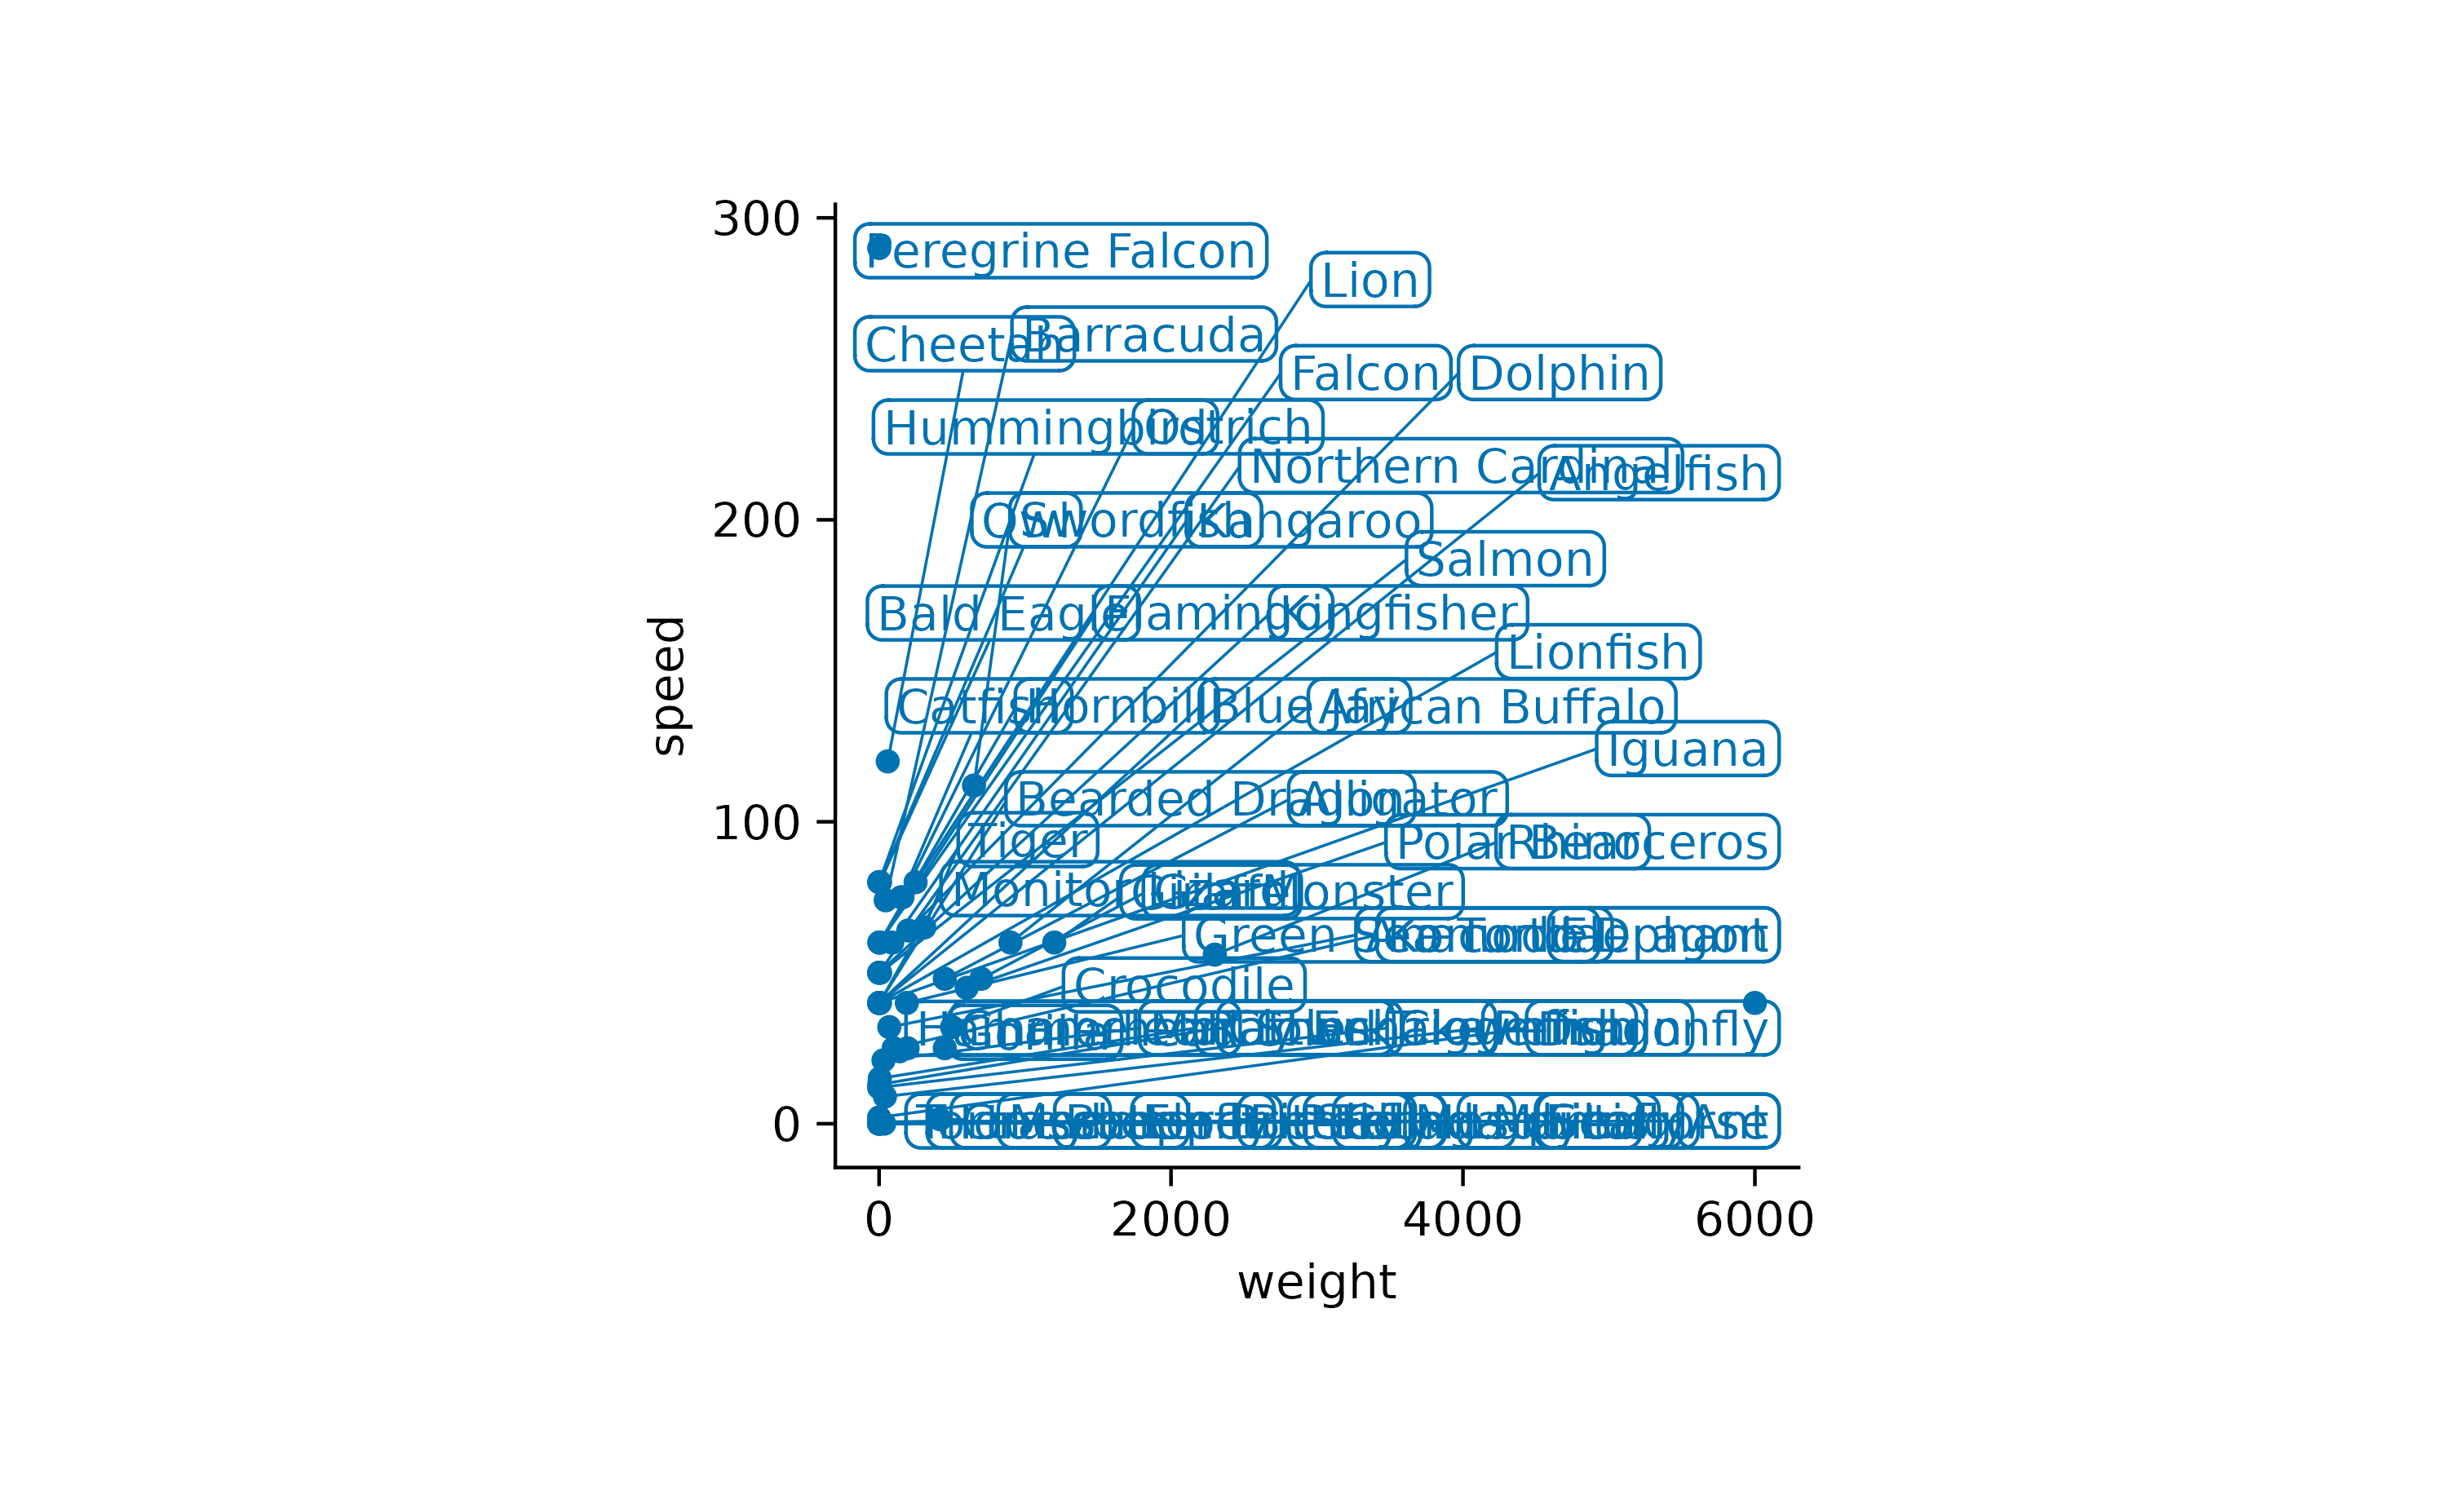
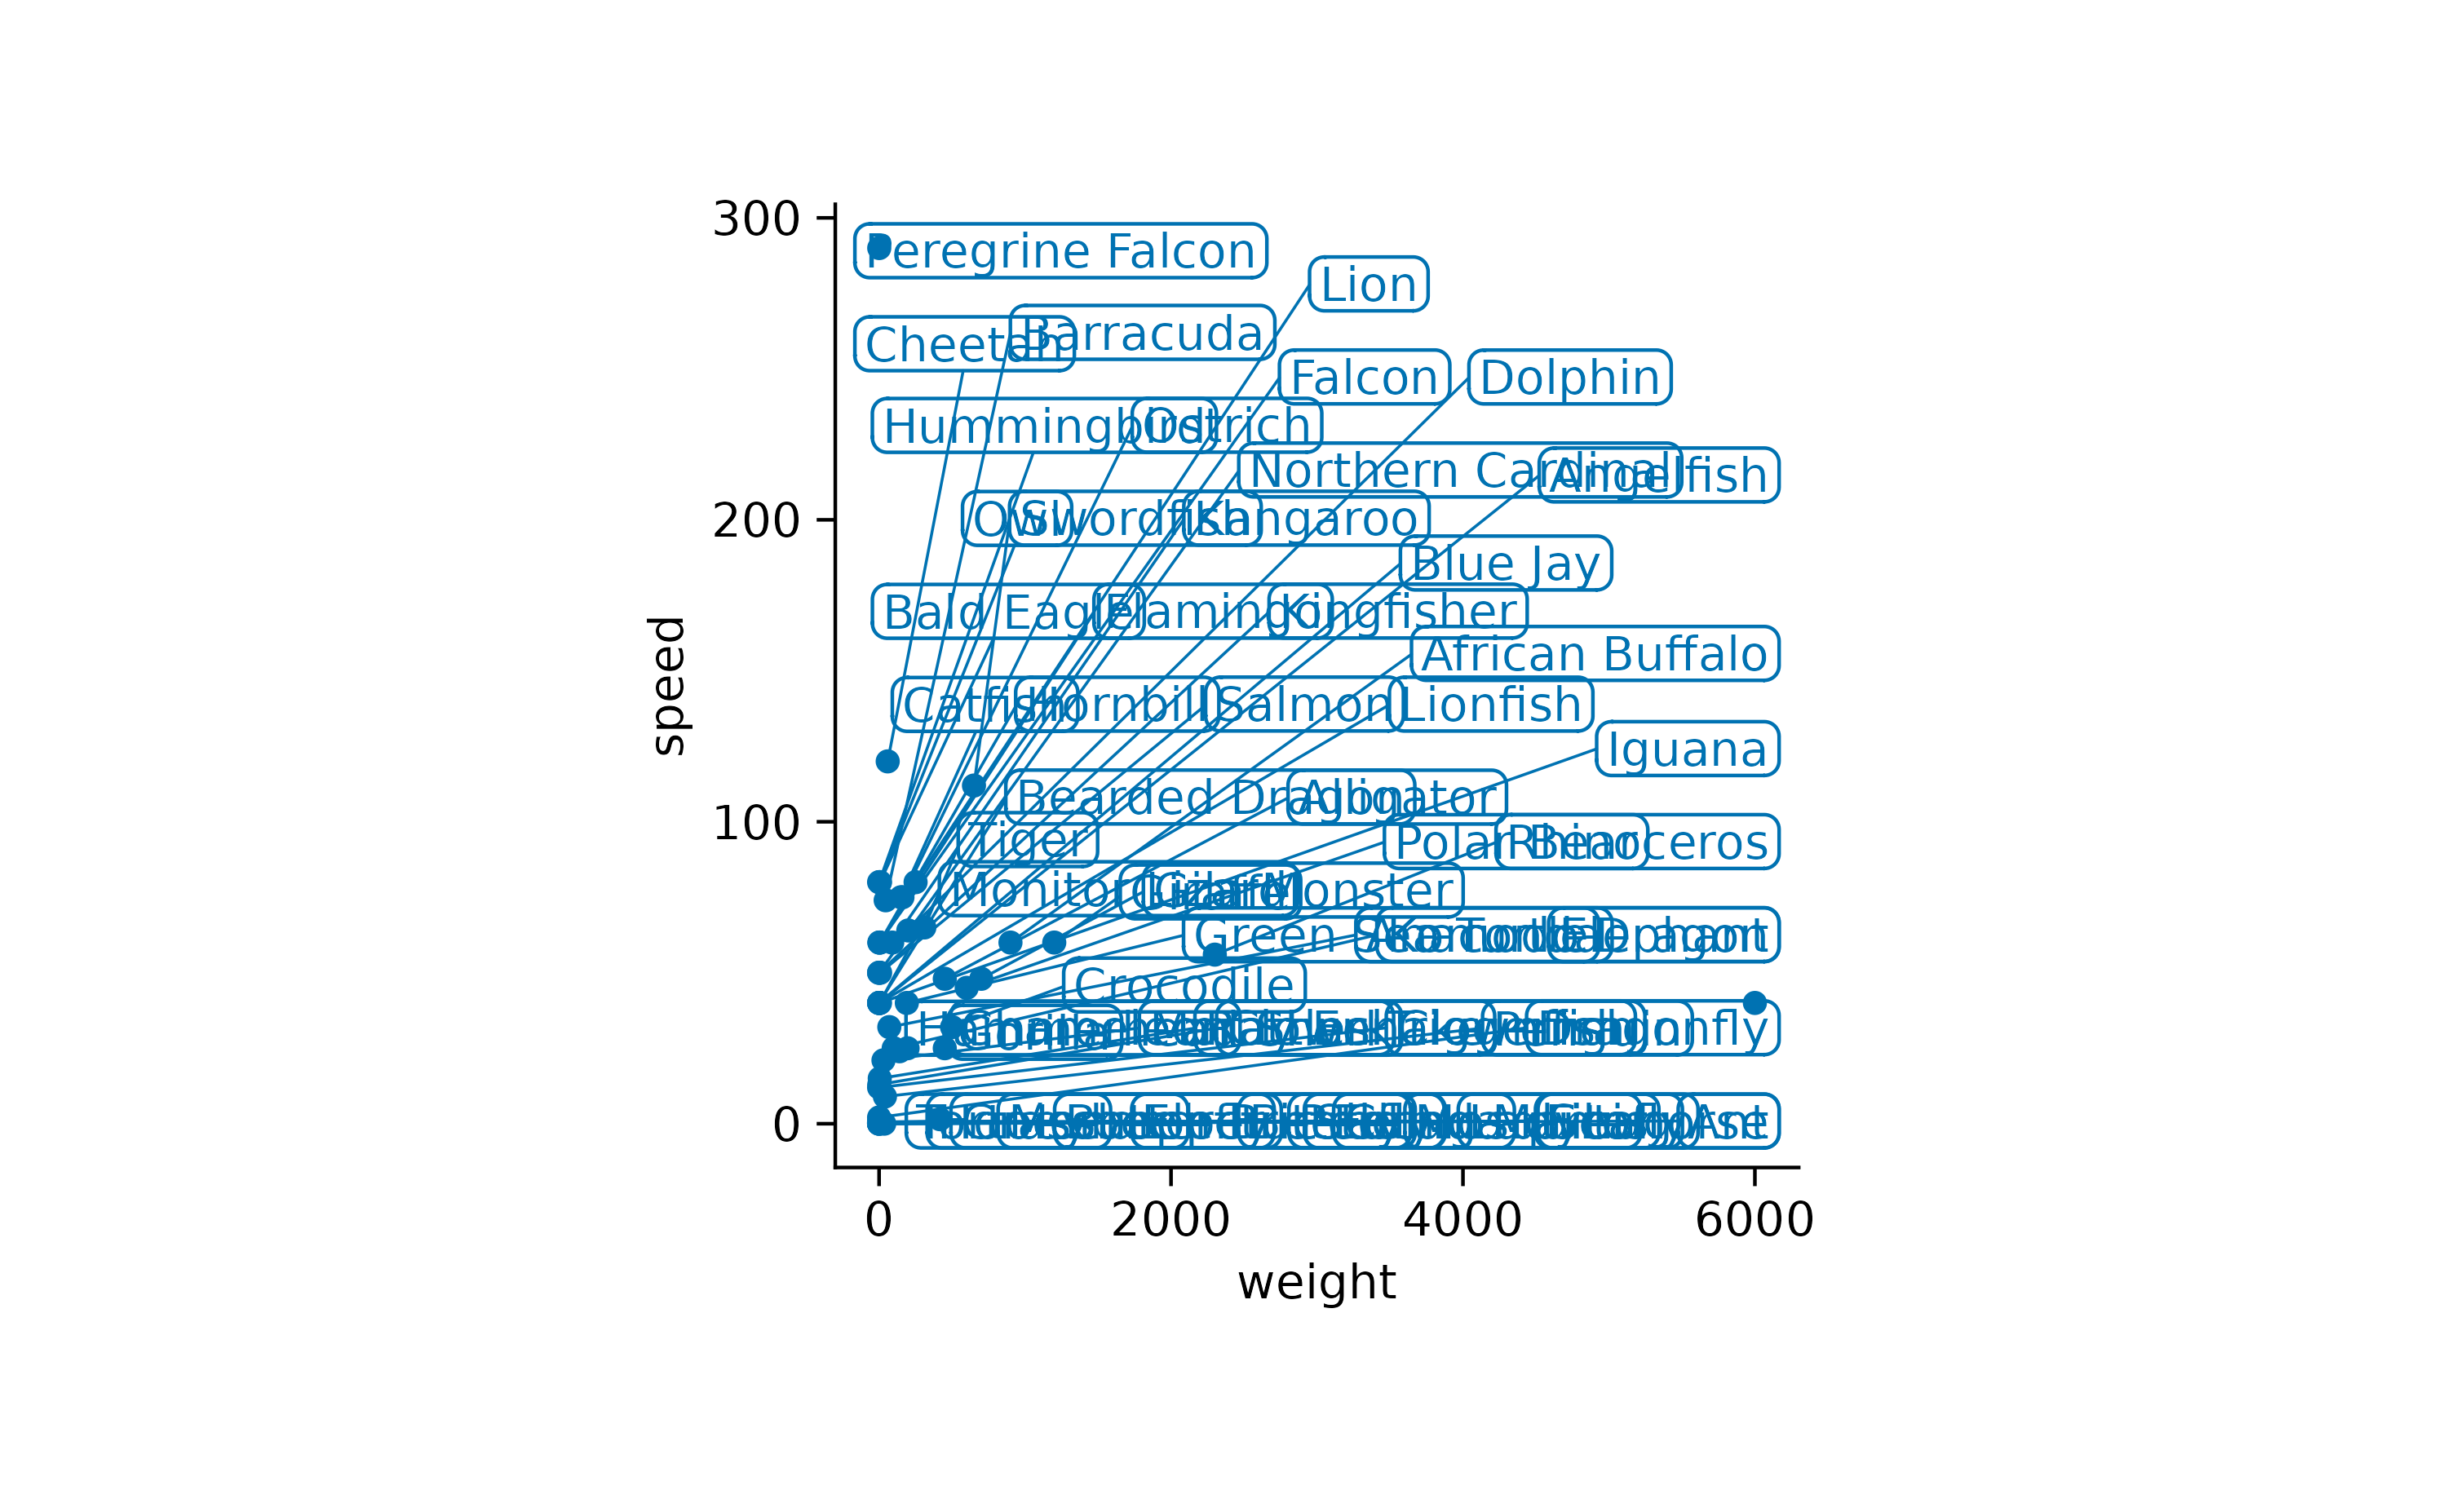
Deploying to gh-pages from @ jbengler/tidyplots@7c016d3a5301ef30e3ac5a82ff9cfbb9a6376e37 🚀

Changed region(s): [[0.341, 0.1537, 0.744, 0.6456], [0.496, 0.6764, 0.682, 0.7071], [0.651, 0.5534, 0.682, 0.5841]]

diff --git a/news/index.html b/news/index.html
@@ -1,5 +1,5 @@
 <!DOCTYPE html>
-<!-- Generated by pkgdown: do not edit by hand --><html lang="en"><head><meta http-equiv="Content-Type" content="text/html; charset=UTF-8"><meta charset="utf-8"><meta http-equiv="X-UA-Compatible" content="IE=edge"><meta name="viewport" content="width=device-width, initial-scale=1, shrink-to-fit=no"><title>Changelog • tidyplots</title><!-- favicons --><link rel="icon" type="image/png" sizes="96x96" href="../favicon-96x96.png"><link rel="icon" type="”image/svg+xml”" href="../favicon.svg"><link rel="apple-touch-icon" sizes="180x180" href="../apple-touch-icon.png"><link rel="icon" sizes="any" href="../favicon.ico"><link rel="manifest" href="../site.webmanifest"><script src="../deps/jquery-3.6.0/jquery-3.6.0.min.js"></script><meta name="viewport" content="width=device-width, initial-scale=1, shrink-to-fit=no"><link href="../deps/bootstrap-5.3.1/bootstrap.min.css" rel="stylesheet"><script src="../deps/bootstrap-5.3.1/bootstrap.bundle.min.js"></script><link href="../deps/font-awesome-6.5.2/css/all.min.css" rel="stylesheet"><link href="../deps/font-awesome-6.5.2/css/v4-shims.min.css" rel="stylesheet"><script src="../deps/headroom-0.11.0/headroom.min.js"></script><script src="../deps/headroom-0.11.0/jQuery.headroom.min.js"></script><script src="../deps/bootstrap-toc-1.0.1/bootstrap-toc.min.js"></script><script src="../deps/clipboard.js-2.0.11/clipboard.min.js"></script><script src="../deps/search-1.0.0/autocomplete.jquery.min.js"></script><script src="../deps/search-1.0.0/fuse.min.js"></script><script src="../deps/search-1.0.0/mark.min.js"></script><!-- pkgdown --><script src="../pkgdown.js"></script><link href="../extra.css" rel="stylesheet"><meta property="og:title" content="Changelog"><meta property="og:image" content="https://jbengler.github.io/tidyplots/logo.svg"></head><body>
+<!-- Generated by pkgdown: do not edit by hand --><html lang="en"><head><meta http-equiv="Content-Type" content="text/html; charset=UTF-8"><meta charset="utf-8"><meta http-equiv="X-UA-Compatible" content="IE=edge"><meta name="viewport" content="width=device-width, initial-scale=1, shrink-to-fit=no"><title>Changelog • tidyplots</title><!-- favicons --><link rel="icon" type="image/png" sizes="96x96" href="../favicon-96x96.png"><link rel="icon" type="”image/svg+xml”" href="../favicon.svg"><link rel="apple-touch-icon" sizes="180x180" href="../apple-touch-icon.png"><link rel="icon" sizes="any" href="../favicon.ico"><link rel="manifest" href="../site.webmanifest"><script src="../deps/jquery-3.6.0/jquery-3.6.0.min.js"></script><meta name="viewport" content="width=device-width, initial-scale=1, shrink-to-fit=no"><link href="../deps/bootstrap-5.3.8/bootstrap.min.css" rel="stylesheet"><script src="../deps/bootstrap-5.3.8/bootstrap.bundle.min.js"></script><link href="../deps/font-awesome-6.5.2/css/all.min.css" rel="stylesheet"><link href="../deps/font-awesome-6.5.2/css/v4-shims.min.css" rel="stylesheet"><script src="../deps/headroom-0.11.0/headroom.min.js"></script><script src="../deps/headroom-0.11.0/jQuery.headroom.min.js"></script><script src="../deps/bootstrap-toc-1.0.1/bootstrap-toc.min.js"></script><script src="../deps/clipboard.js-2.0.11/clipboard.min.js"></script><script src="../deps/search-1.0.0/autocomplete.jquery.min.js"></script><script src="../deps/search-1.0.0/fuse.min.js"></script><script src="../deps/search-1.0.0/mark.min.js"></script><!-- pkgdown --><script src="../pkgdown.js"></script><link href="../extra.css" rel="stylesheet"><meta property="og:title" content="Changelog"><meta property="og:image" content="https://jbengler.github.io/tidyplots/logo.svg"></head><body>
     <a href="#main" class="visually-hidden-focusable">Skip to contents</a>
 
 
@@ -46,6 +46,10 @@
 <li>New <code><a href="../reference/add_test_pvalue_manual.html">add_test_pvalue_manual()</a></code> and <code><a href="../reference/add_test_pvalue_manual.html">add_test_asterisks_manual()</a></code> for adding pre-computed statistical comparisons via <code><a href="https://rpkgs.datanovia.com/ggpubr/reference/stat_pvalue_manual.html" class="external-link">ggpubr::stat_pvalue_manual()</a></code>.</li>
 <li>
 <code><a href="../reference/add_data_points.html">add_data_points_jitter()</a></code>, <code><a href="../reference/add_data_labels.html">add_data_labels()</a></code> and <code><a href="../reference/add_data_labels.html">add_data_labels_repel()</a></code> now expose the <code>seed</code> parameter.</li>
+</ul></div>
+<div class="section level3">
+<h3 id="bug-fixes-development-version">Bug fixes<a class="anchor" aria-label="anchor" href="#bug-fixes-development-version"></a></h3>
+<ul><li>Color saturation now persist multiple <code><a href="../reference/adjust_colors.html">adjust_colors()</a></code> calls (<a href="https://github.com/jbengler/tidyplots/issues/171" class="external-link">#171</a>).</li>
 </ul></div>
 </div>
     <div class="section level2">

diff --git a/404.html b/404.html
@@ -12,8 +12,8 @@
 <link rel="icon" sizes="any" href="https://jbengler.github.io/tidyplots/favicon.ico">
 <link rel="manifest" href="https://jbengler.github.io/tidyplots/site.webmanifest">
 <script src="https://jbengler.github.io/tidyplots/deps/jquery-3.6.0/jquery-3.6.0.min.js"></script><meta name="viewport" content="width=device-width, initial-scale=1, shrink-to-fit=no">
-<link href="https://jbengler.github.io/tidyplots/deps/bootstrap-5.3.1/bootstrap.min.css" rel="stylesheet">
-<script src="https://jbengler.github.io/tidyplots/deps/bootstrap-5.3.1/bootstrap.bundle.min.js"></script><link href="https://jbengler.github.io/tidyplots/deps/font-awesome-6.5.2/css/all.min.css" rel="stylesheet">
+<link href="https://jbengler.github.io/tidyplots/deps/bootstrap-5.3.8/bootstrap.min.css" rel="stylesheet">
+<script src="https://jbengler.github.io/tidyplots/deps/bootstrap-5.3.8/bootstrap.bundle.min.js"></script><link href="https://jbengler.github.io/tidyplots/deps/font-awesome-6.5.2/css/all.min.css" rel="stylesheet">
 <link href="https://jbengler.github.io/tidyplots/deps/font-awesome-6.5.2/css/v4-shims.min.css" rel="stylesheet">
 <script src="https://jbengler.github.io/tidyplots/deps/headroom-0.11.0/headroom.min.js"></script><script src="https://jbengler.github.io/tidyplots/deps/headroom-0.11.0/jQuery.headroom.min.js"></script><script src="https://jbengler.github.io/tidyplots/deps/bootstrap-toc-1.0.1/bootstrap-toc.min.js"></script><script src="https://jbengler.github.io/tidyplots/deps/clipboard.js-2.0.11/clipboard.min.js"></script><script src="https://jbengler.github.io/tidyplots/deps/search-1.0.0/autocomplete.jquery.min.js"></script><script src="https://jbengler.github.io/tidyplots/deps/search-1.0.0/fuse.min.js"></script><script src="https://jbengler.github.io/tidyplots/deps/search-1.0.0/mark.min.js"></script><!-- pkgdown --><script src="https://jbengler.github.io/tidyplots/pkgdown.js"></script><link href="https://jbengler.github.io/tidyplots/extra.css" rel="stylesheet">
 <meta property="og:title" content="Page not found (404)">

diff --git a/articles/Advanced-plotting.html b/articles/Advanced-plotting.html
@@ -12,8 +12,8 @@
 <link rel="icon" sizes="any" href="../favicon.ico">
 <link rel="manifest" href="../site.webmanifest">
 <script src="../deps/jquery-3.6.0/jquery-3.6.0.min.js"></script><meta name="viewport" content="width=device-width, initial-scale=1, shrink-to-fit=no">
-<link href="../deps/bootstrap-5.3.1/bootstrap.min.css" rel="stylesheet">
-<script src="../deps/bootstrap-5.3.1/bootstrap.bundle.min.js"></script><link href="../deps/font-awesome-6.5.2/css/all.min.css" rel="stylesheet">
+<link href="../deps/bootstrap-5.3.8/bootstrap.min.css" rel="stylesheet">
+<script src="../deps/bootstrap-5.3.8/bootstrap.bundle.min.js"></script><link href="../deps/font-awesome-6.5.2/css/all.min.css" rel="stylesheet">
 <link href="../deps/font-awesome-6.5.2/css/v4-shims.min.css" rel="stylesheet">
 <script src="../deps/headroom-0.11.0/headroom.min.js"></script><script src="../deps/headroom-0.11.0/jQuery.headroom.min.js"></script><script src="../deps/bootstrap-toc-1.0.1/bootstrap-toc.min.js"></script><script src="../deps/clipboard.js-2.0.11/clipboard.min.js"></script><script src="../deps/search-1.0.0/autocomplete.jquery.min.js"></script><script src="../deps/search-1.0.0/fuse.min.js"></script><script src="../deps/search-1.0.0/mark.min.js"></script><!-- pkgdown --><script src="../pkgdown.js"></script><link href="../extra.css" rel="stylesheet">
 <meta property="og:title" content="Advanced plotting">

diff --git a/articles/Color-schemes.html b/articles/Color-schemes.html
@@ -12,8 +12,8 @@
 <link rel="icon" sizes="any" href="../favicon.ico">
 <link rel="manifest" href="../site.webmanifest">
 <script src="../deps/jquery-3.6.0/jquery-3.6.0.min.js"></script><meta name="viewport" content="width=device-width, initial-scale=1, shrink-to-fit=no">
-<link href="../deps/bootstrap-5.3.1/bootstrap.min.css" rel="stylesheet">
-<script src="../deps/bootstrap-5.3.1/bootstrap.bundle.min.js"></script><link href="../deps/font-awesome-6.5.2/css/all.min.css" rel="stylesheet">
+<link href="../deps/bootstrap-5.3.8/bootstrap.min.css" rel="stylesheet">
+<script src="../deps/bootstrap-5.3.8/bootstrap.bundle.min.js"></script><link href="../deps/font-awesome-6.5.2/css/all.min.css" rel="stylesheet">
 <link href="../deps/font-awesome-6.5.2/css/v4-shims.min.css" rel="stylesheet">
 <script src="../deps/headroom-0.11.0/headroom.min.js"></script><script src="../deps/headroom-0.11.0/jQuery.headroom.min.js"></script><script src="../deps/bootstrap-toc-1.0.1/bootstrap-toc.min.js"></script><script src="../deps/clipboard.js-2.0.11/clipboard.min.js"></script><script src="../deps/search-1.0.0/autocomplete.jquery.min.js"></script><script src="../deps/search-1.0.0/fuse.min.js"></script><script src="../deps/search-1.0.0/mark.min.js"></script><!-- pkgdown --><script src="../pkgdown.js"></script><link href="../extra.css" rel="stylesheet">
 <meta property="og:title" content="Color schemes">

diff --git a/articles/Visualizing-data.html b/articles/Visualizing-data.html
@@ -12,8 +12,8 @@
 <link rel="icon" sizes="any" href="../favicon.ico">
 <link rel="manifest" href="../site.webmanifest">
 <script src="../deps/jquery-3.6.0/jquery-3.6.0.min.js"></script><meta name="viewport" content="width=device-width, initial-scale=1, shrink-to-fit=no">
-<link href="../deps/bootstrap-5.3.1/bootstrap.min.css" rel="stylesheet">
-<script src="../deps/bootstrap-5.3.1/bootstrap.bundle.min.js"></script><link href="../deps/font-awesome-6.5.2/css/all.min.css" rel="stylesheet">
+<link href="../deps/bootstrap-5.3.8/bootstrap.min.css" rel="stylesheet">
+<script src="../deps/bootstrap-5.3.8/bootstrap.bundle.min.js"></script><link href="../deps/font-awesome-6.5.2/css/all.min.css" rel="stylesheet">
 <link href="../deps/font-awesome-6.5.2/css/v4-shims.min.css" rel="stylesheet">
 <script src="../deps/headroom-0.11.0/headroom.min.js"></script><script src="../deps/headroom-0.11.0/jQuery.headroom.min.js"></script><script src="../deps/bootstrap-toc-1.0.1/bootstrap-toc.min.js"></script><script src="../deps/clipboard.js-2.0.11/clipboard.min.js"></script><script src="../deps/search-1.0.0/autocomplete.jquery.min.js"></script><script src="../deps/search-1.0.0/fuse.min.js"></script><script src="../deps/search-1.0.0/mark.min.js"></script><!-- pkgdown --><script src="../pkgdown.js"></script><link href="../extra.css" rel="stylesheet">
 <meta property="og:title" content="Visualizing data">

diff --git a/articles/tidyplots.html b/articles/tidyplots.html
@@ -12,8 +12,8 @@
 <link rel="icon" sizes="any" href="../favicon.ico">
 <link rel="manifest" href="../site.webmanifest">
 <script src="../deps/jquery-3.6.0/jquery-3.6.0.min.js"></script><meta name="viewport" content="width=device-width, initial-scale=1, shrink-to-fit=no">
-<link href="../deps/bootstrap-5.3.1/bootstrap.min.css" rel="stylesheet">
-<script src="../deps/bootstrap-5.3.1/bootstrap.bundle.min.js"></script><link href="../deps/font-awesome-6.5.2/css/all.min.css" rel="stylesheet">
+<link href="../deps/bootstrap-5.3.8/bootstrap.min.css" rel="stylesheet">
+<script src="../deps/bootstrap-5.3.8/bootstrap.bundle.min.js"></script><link href="../deps/font-awesome-6.5.2/css/all.min.css" rel="stylesheet">
 <link href="../deps/font-awesome-6.5.2/css/v4-shims.min.css" rel="stylesheet">
 <script src="../deps/headroom-0.11.0/headroom.min.js"></script><script src="../deps/headroom-0.11.0/jQuery.headroom.min.js"></script><script src="../deps/bootstrap-toc-1.0.1/bootstrap-toc.min.js"></script><script src="../deps/clipboard.js-2.0.11/clipboard.min.js"></script><script src="../deps/search-1.0.0/autocomplete.jquery.min.js"></script><script src="../deps/search-1.0.0/fuse.min.js"></script><script src="../deps/search-1.0.0/mark.min.js"></script><!-- pkgdown --><script src="../pkgdown.js"></script><link href="../extra.css" rel="stylesheet">
 <meta property="og:title" content="Get started">

diff --git a/index.html b/index.html
@@ -12,8 +12,8 @@
 <link rel="icon" sizes="any" href="favicon.ico">
 <link rel="manifest" href="site.webmanifest">
 <script src="deps/jquery-3.6.0/jquery-3.6.0.min.js"></script><meta name="viewport" content="width=device-width, initial-scale=1, shrink-to-fit=no">
-<link href="deps/bootstrap-5.3.1/bootstrap.min.css" rel="stylesheet">
-<script src="deps/bootstrap-5.3.1/bootstrap.bundle.min.js"></script><link href="deps/font-awesome-6.5.2/css/all.min.css" rel="stylesheet">
+<link href="deps/bootstrap-5.3.8/bootstrap.min.css" rel="stylesheet">
+<script src="deps/bootstrap-5.3.8/bootstrap.bundle.min.js"></script><link href="deps/font-awesome-6.5.2/css/all.min.css" rel="stylesheet">
 <link href="deps/font-awesome-6.5.2/css/v4-shims.min.css" rel="stylesheet">
 <script src="deps/headroom-0.11.0/headroom.min.js"></script><script src="deps/headroom-0.11.0/jQuery.headroom.min.js"></script><script src="deps/bootstrap-toc-1.0.1/bootstrap-toc.min.js"></script><script src="deps/clipboard.js-2.0.11/clipboard.min.js"></script><script src="deps/search-1.0.0/autocomplete.jquery.min.js"></script><script src="deps/search-1.0.0/fuse.min.js"></script><script src="deps/search-1.0.0/mark.min.js"></script><!-- pkgdown --><script src="pkgdown.js"></script><link href="extra.css" rel="stylesheet">
 <meta property="og:title" content="Tidy Plots for Scientific Papers">

diff --git a/reference/adjust_colors.html b/reference/adjust_colors.html
@@ -1,5 +1,5 @@
 <!DOCTYPE html>
-<!-- Generated by pkgdown: do not edit by hand --><html lang="en"><head><meta http-equiv="Content-Type" content="text/html; charset=UTF-8"><meta charset="utf-8"><meta http-equiv="X-UA-Compatible" content="IE=edge"><meta name="viewport" content="width=device-width, initial-scale=1, shrink-to-fit=no"><title>Adjust colors — adjust_colors • tidyplots</title><!-- favicons --><link rel="icon" type="image/png" sizes="96x96" href="../favicon-96x96.png"><link rel="icon" type="”image/svg+xml”" href="../favicon.svg"><link rel="apple-touch-icon" sizes="180x180" href="../apple-touch-icon.png"><link rel="icon" sizes="any" href="../favicon.ico"><link rel="manifest" href="../site.webmanifest"><script src="../deps/jquery-3.6.0/jquery-3.6.0.min.js"></script><meta name="viewport" content="width=device-width, initial-scale=1, shrink-to-fit=no"><link href="../deps/bootstrap-5.3.1/bootstrap.min.css" rel="stylesheet"><script src="../deps/bootstrap-5.3.1/bootstrap.bundle.min.js"></script><link href="../deps/font-awesome-6.5.2/css/all.min.css" rel="stylesheet"><link href="../deps/font-awesome-6.5.2/css/v4-shims.min.css" rel="stylesheet"><script src="../deps/headroom-0.11.0/headroom.min.js"></script><script src="../deps/headroom-0.11.0/jQuery.headroom.min.js"></script><script src="../deps/bootstrap-toc-1.0.1/bootstrap-toc.min.js"></script><script src="../deps/clipboard.js-2.0.11/clipboard.min.js"></script><script src="../deps/search-1.0.0/autocomplete.jquery.min.js"></script><script src="../deps/search-1.0.0/fuse.min.js"></script><script src="../deps/search-1.0.0/mark.min.js"></script><!-- pkgdown --><script src="../pkgdown.js"></script><link href="../extra.css" rel="stylesheet"><meta property="og:title" content="Adjust colors — adjust_colors"><meta name="description" content="Adjust colors"><meta property="og:description" content="Adjust colors"><meta property="og:image" content="https://jbengler.github.io/tidyplots/logo.svg"></head><body>
+<!-- Generated by pkgdown: do not edit by hand --><html lang="en"><head><meta http-equiv="Content-Type" content="text/html; charset=UTF-8"><meta charset="utf-8"><meta http-equiv="X-UA-Compatible" content="IE=edge"><meta name="viewport" content="width=device-width, initial-scale=1, shrink-to-fit=no"><title>Adjust colors — adjust_colors • tidyplots</title><!-- favicons --><link rel="icon" type="image/png" sizes="96x96" href="../favicon-96x96.png"><link rel="icon" type="”image/svg+xml”" href="../favicon.svg"><link rel="apple-touch-icon" sizes="180x180" href="../apple-touch-icon.png"><link rel="icon" sizes="any" href="../favicon.ico"><link rel="manifest" href="../site.webmanifest"><script src="../deps/jquery-3.6.0/jquery-3.6.0.min.js"></script><meta name="viewport" content="width=device-width, initial-scale=1, shrink-to-fit=no"><link href="../deps/bootstrap-5.3.8/bootstrap.min.css" rel="stylesheet"><script src="../deps/bootstrap-5.3.8/bootstrap.bundle.min.js"></script><link href="../deps/font-awesome-6.5.2/css/all.min.css" rel="stylesheet"><link href="../deps/font-awesome-6.5.2/css/v4-shims.min.css" rel="stylesheet"><script src="../deps/headroom-0.11.0/headroom.min.js"></script><script src="../deps/headroom-0.11.0/jQuery.headroom.min.js"></script><script src="../deps/bootstrap-toc-1.0.1/bootstrap-toc.min.js"></script><script src="../deps/clipboard.js-2.0.11/clipboard.min.js"></script><script src="../deps/search-1.0.0/autocomplete.jquery.min.js"></script><script src="../deps/search-1.0.0/fuse.min.js"></script><script src="../deps/search-1.0.0/mark.min.js"></script><!-- pkgdown --><script src="../pkgdown.js"></script><link href="../extra.css" rel="stylesheet"><meta property="og:title" content="Adjust colors — adjust_colors"><meta name="description" content="Adjust colors"><meta property="og:description" content="Adjust colors"><meta property="og:image" content="https://jbengler.github.io/tidyplots/logo.svg"></head><body>
     <a href="#main" class="visually-hidden-focusable">Skip to contents</a>
 
 
@@ -48,7 +48,7 @@
     <div class="sourceCode"><pre class="sourceCode r"><code><span><span class="fu">adjust_colors</span><span class="op">(</span></span>
 <span>  <span class="va">plot</span>,</span>
 <span>  new_colors <span class="op">=</span> <span class="cn">NULL</span>,</span>
-<span>  saturation <span class="op">=</span> <span class="fl">1</span>,</span>
+<span>  saturation <span class="op">=</span> <span class="cn">NULL</span>,</span>
 <span>  labels <span class="op">=</span> <span class="fu">tidyplot_parse_labels</span><span class="op">(</span><span class="op">)</span>,</span>
 <span>  downsample <span class="op">=</span> <span class="fu"><a href="https://rdrr.io/r/base/c.html" class="external-link">c</a></span><span class="op">(</span><span class="st">"evenly"</span>, <span class="st">"first"</span>, <span class="st">"last"</span>, <span class="st">"middle"</span><span class="op">)</span>,</span>
 <span>  <span class="va">...</span></span>

diff --git a/LICENSE-text.html b/LICENSE-text.html
@@ -1,5 +1,5 @@
 <!DOCTYPE html>
-<!-- Generated by pkgdown: do not edit by hand --><html lang="en"><head><meta http-equiv="Content-Type" content="text/html; charset=UTF-8"><meta charset="utf-8"><meta http-equiv="X-UA-Compatible" content="IE=edge"><meta name="viewport" content="width=device-width, initial-scale=1, shrink-to-fit=no"><title>License • tidyplots</title><!-- favicons --><link rel="icon" type="image/png" sizes="96x96" href="favicon-96x96.png"><link rel="icon" type="”image/svg+xml”" href="favicon.svg"><link rel="apple-touch-icon" sizes="180x180" href="apple-touch-icon.png"><link rel="icon" sizes="any" href="favicon.ico"><link rel="manifest" href="site.webmanifest"><script src="deps/jquery-3.6.0/jquery-3.6.0.min.js"></script><meta name="viewport" content="width=device-width, initial-scale=1, shrink-to-fit=no"><link href="deps/bootstrap-5.3.1/bootstrap.min.css" rel="stylesheet"><script src="deps/bootstrap-5.3.1/bootstrap.bundle.min.js"></script><link href="deps/font-awesome-6.5.2/css/all.min.css" rel="stylesheet"><link href="deps/font-awesome-6.5.2/css/v4-shims.min.css" rel="stylesheet"><script src="deps/headroom-0.11.0/headroom.min.js"></script><script src="deps/headroom-0.11.0/jQuery.headroom.min.js"></script><script src="deps/bootstrap-toc-1.0.1/bootstrap-toc.min.js"></script><script src="deps/clipboard.js-2.0.11/clipboard.min.js"></script><script src="deps/search-1.0.0/autocomplete.jquery.min.js"></script><script src="deps/search-1.0.0/fuse.min.js"></script><script src="deps/search-1.0.0/mark.min.js"></script><!-- pkgdown --><script src="pkgdown.js"></script><link href="extra.css" rel="stylesheet"><meta property="og:title" content="License"><meta property="og:image" content="https://jbengler.github.io/tidyplots/logo.svg"></head><body>
+<!-- Generated by pkgdown: do not edit by hand --><html lang="en"><head><meta http-equiv="Content-Type" content="text/html; charset=UTF-8"><meta charset="utf-8"><meta http-equiv="X-UA-Compatible" content="IE=edge"><meta name="viewport" content="width=device-width, initial-scale=1, shrink-to-fit=no"><title>License • tidyplots</title><!-- favicons --><link rel="icon" type="image/png" sizes="96x96" href="favicon-96x96.png"><link rel="icon" type="”image/svg+xml”" href="favicon.svg"><link rel="apple-touch-icon" sizes="180x180" href="apple-touch-icon.png"><link rel="icon" sizes="any" href="favicon.ico"><link rel="manifest" href="site.webmanifest"><script src="deps/jquery-3.6.0/jquery-3.6.0.min.js"></script><meta name="viewport" content="width=device-width, initial-scale=1, shrink-to-fit=no"><link href="deps/bootstrap-5.3.8/bootstrap.min.css" rel="stylesheet"><script src="deps/bootstrap-5.3.8/bootstrap.bundle.min.js"></script><link href="deps/font-awesome-6.5.2/css/all.min.css" rel="stylesheet"><link href="deps/font-awesome-6.5.2/css/v4-shims.min.css" rel="stylesheet"><script src="deps/headroom-0.11.0/headroom.min.js"></script><script src="deps/headroom-0.11.0/jQuery.headroom.min.js"></script><script src="deps/bootstrap-toc-1.0.1/bootstrap-toc.min.js"></script><script src="deps/clipboard.js-2.0.11/clipboard.min.js"></script><script src="deps/search-1.0.0/autocomplete.jquery.min.js"></script><script src="deps/search-1.0.0/fuse.min.js"></script><script src="deps/search-1.0.0/mark.min.js"></script><!-- pkgdown --><script src="pkgdown.js"></script><link href="extra.css" rel="stylesheet"><meta property="og:title" content="License"><meta property="og:image" content="https://jbengler.github.io/tidyplots/logo.svg"></head><body>
     <a href="#main" class="visually-hidden-focusable">Skip to contents</a>
 
 

diff --git a/LICENSE.html b/LICENSE.html
@@ -1,5 +1,5 @@
 <!DOCTYPE html>
-<!-- Generated by pkgdown: do not edit by hand --><html lang="en"><head><meta http-equiv="Content-Type" content="text/html; charset=UTF-8"><meta charset="utf-8"><meta http-equiv="X-UA-Compatible" content="IE=edge"><meta name="viewport" content="width=device-width, initial-scale=1, shrink-to-fit=no"><title>MIT License • tidyplots</title><!-- favicons --><link rel="icon" type="image/png" sizes="96x96" href="favicon-96x96.png"><link rel="icon" type="”image/svg+xml”" href="favicon.svg"><link rel="apple-touch-icon" sizes="180x180" href="apple-touch-icon.png"><link rel="icon" sizes="any" href="favicon.ico"><link rel="manifest" href="site.webmanifest"><script src="deps/jquery-3.6.0/jquery-3.6.0.min.js"></script><meta name="viewport" content="width=device-width, initial-scale=1, shrink-to-fit=no"><link href="deps/bootstrap-5.3.1/bootstrap.min.css" rel="stylesheet"><script src="deps/bootstrap-5.3.1/bootstrap.bundle.min.js"></script><link href="deps/font-awesome-6.5.2/css/all.min.css" rel="stylesheet"><link href="deps/font-awesome-6.5.2/css/v4-shims.min.css" rel="stylesheet"><script src="deps/headroom-0.11.0/headroom.min.js"></script><script src="deps/headroom-0.11.0/jQuery.headroom.min.js"></script><script src="deps/bootstrap-toc-1.0.1/bootstrap-toc.min.js"></script><script src="deps/clipboard.js-2.0.11/clipboard.min.js"></script><script src="deps/search-1.0.0/autocomplete.jquery.min.js"></script><script src="deps/search-1.0.0/fuse.min.js"></script><script src="deps/search-1.0.0/mark.min.js"></script><!-- pkgdown --><script src="pkgdown.js"></script><link href="extra.css" rel="stylesheet"><meta property="og:title" content="MIT License"><meta property="og:image" content="https://jbengler.github.io/tidyplots/logo.svg"></head><body>
+<!-- Generated by pkgdown: do not edit by hand --><html lang="en"><head><meta http-equiv="Content-Type" content="text/html; charset=UTF-8"><meta charset="utf-8"><meta http-equiv="X-UA-Compatible" content="IE=edge"><meta name="viewport" content="width=device-width, initial-scale=1, shrink-to-fit=no"><title>MIT License • tidyplots</title><!-- favicons --><link rel="icon" type="image/png" sizes="96x96" href="favicon-96x96.png"><link rel="icon" type="”image/svg+xml”" href="favicon.svg"><link rel="apple-touch-icon" sizes="180x180" href="apple-touch-icon.png"><link rel="icon" sizes="any" href="favicon.ico"><link rel="manifest" href="site.webmanifest"><script src="deps/jquery-3.6.0/jquery-3.6.0.min.js"></script><meta name="viewport" content="width=device-width, initial-scale=1, shrink-to-fit=no"><link href="deps/bootstrap-5.3.8/bootstrap.min.css" rel="stylesheet"><script src="deps/bootstrap-5.3.8/bootstrap.bundle.min.js"></script><link href="deps/font-awesome-6.5.2/css/all.min.css" rel="stylesheet"><link href="deps/font-awesome-6.5.2/css/v4-shims.min.css" rel="stylesheet"><script src="deps/headroom-0.11.0/headroom.min.js"></script><script src="deps/headroom-0.11.0/jQuery.headroom.min.js"></script><script src="deps/bootstrap-toc-1.0.1/bootstrap-toc.min.js"></script><script src="deps/clipboard.js-2.0.11/clipboard.min.js"></script><script src="deps/search-1.0.0/autocomplete.jquery.min.js"></script><script src="deps/search-1.0.0/fuse.min.js"></script><script src="deps/search-1.0.0/mark.min.js"></script><!-- pkgdown --><script src="pkgdown.js"></script><link href="extra.css" rel="stylesheet"><meta property="og:title" content="MIT License"><meta property="og:image" content="https://jbengler.github.io/tidyplots/logo.svg"></head><body>
     <a href="#main" class="visually-hidden-focusable">Skip to contents</a>
 
 

diff --git a/articles/index.html b/articles/index.html
@@ -1,5 +1,5 @@
 <!DOCTYPE html>
-<!-- Generated by pkgdown: do not edit by hand --><html lang="en"><head><meta http-equiv="Content-Type" content="text/html; charset=UTF-8"><meta charset="utf-8"><meta http-equiv="X-UA-Compatible" content="IE=edge"><meta name="viewport" content="width=device-width, initial-scale=1, shrink-to-fit=no"><title>Articles • tidyplots</title><!-- favicons --><link rel="icon" type="image/png" sizes="96x96" href="../favicon-96x96.png"><link rel="icon" type="”image/svg+xml”" href="../favicon.svg"><link rel="apple-touch-icon" sizes="180x180" href="../apple-touch-icon.png"><link rel="icon" sizes="any" href="../favicon.ico"><link rel="manifest" href="../site.webmanifest"><script src="../deps/jquery-3.6.0/jquery-3.6.0.min.js"></script><meta name="viewport" content="width=device-width, initial-scale=1, shrink-to-fit=no"><link href="../deps/bootstrap-5.3.1/bootstrap.min.css" rel="stylesheet"><script src="../deps/bootstrap-5.3.1/bootstrap.bundle.min.js"></script><link href="../deps/font-awesome-6.5.2/css/all.min.css" rel="stylesheet"><link href="../deps/font-awesome-6.5.2/css/v4-shims.min.css" rel="stylesheet"><script src="../deps/headroom-0.11.0/headroom.min.js"></script><script src="../deps/headroom-0.11.0/jQuery.headroom.min.js"></script><script src="../deps/bootstrap-toc-1.0.1/bootstrap-toc.min.js"></script><script src="../deps/clipboard.js-2.0.11/clipboard.min.js"></script><script src="../deps/search-1.0.0/autocomplete.jquery.min.js"></script><script src="../deps/search-1.0.0/fuse.min.js"></script><script src="../deps/search-1.0.0/mark.min.js"></script><!-- pkgdown --><script src="../pkgdown.js"></script><link href="../extra.css" rel="stylesheet"><meta property="og:title" content="Articles"><meta property="og:image" content="https://jbengler.github.io/tidyplots/logo.svg"></head><body>
+<!-- Generated by pkgdown: do not edit by hand --><html lang="en"><head><meta http-equiv="Content-Type" content="text/html; charset=UTF-8"><meta charset="utf-8"><meta http-equiv="X-UA-Compatible" content="IE=edge"><meta name="viewport" content="width=device-width, initial-scale=1, shrink-to-fit=no"><title>Articles • tidyplots</title><!-- favicons --><link rel="icon" type="image/png" sizes="96x96" href="../favicon-96x96.png"><link rel="icon" type="”image/svg+xml”" href="../favicon.svg"><link rel="apple-touch-icon" sizes="180x180" href="../apple-touch-icon.png"><link rel="icon" sizes="any" href="../favicon.ico"><link rel="manifest" href="../site.webmanifest"><script src="../deps/jquery-3.6.0/jquery-3.6.0.min.js"></script><meta name="viewport" content="width=device-width, initial-scale=1, shrink-to-fit=no"><link href="../deps/bootstrap-5.3.8/bootstrap.min.css" rel="stylesheet"><script src="../deps/bootstrap-5.3.8/bootstrap.bundle.min.js"></script><link href="../deps/font-awesome-6.5.2/css/all.min.css" rel="stylesheet"><link href="../deps/font-awesome-6.5.2/css/v4-shims.min.css" rel="stylesheet"><script src="../deps/headroom-0.11.0/headroom.min.js"></script><script src="../deps/headroom-0.11.0/jQuery.headroom.min.js"></script><script src="../deps/bootstrap-toc-1.0.1/bootstrap-toc.min.js"></script><script src="../deps/clipboard.js-2.0.11/clipboard.min.js"></script><script src="../deps/search-1.0.0/autocomplete.jquery.min.js"></script><script src="../deps/search-1.0.0/fuse.min.js"></script><script src="../deps/search-1.0.0/mark.min.js"></script><!-- pkgdown --><script src="../pkgdown.js"></script><link href="../extra.css" rel="stylesheet"><meta property="og:title" content="Articles"><meta property="og:image" content="https://jbengler.github.io/tidyplots/logo.svg"></head><body>
     <a href="#main" class="visually-hidden-focusable">Skip to contents</a>
 
 

diff --git a/authors.html b/authors.html
@@ -1,5 +1,5 @@
 <!DOCTYPE html>
-<!-- Generated by pkgdown: do not edit by hand --><html lang="en"><head><meta http-equiv="Content-Type" content="text/html; charset=UTF-8"><meta charset="utf-8"><meta http-equiv="X-UA-Compatible" content="IE=edge"><meta name="viewport" content="width=device-width, initial-scale=1, shrink-to-fit=no"><title>Authors and Citation • tidyplots</title><!-- favicons --><link rel="icon" type="image/png" sizes="96x96" href="favicon-96x96.png"><link rel="icon" type="”image/svg+xml”" href="favicon.svg"><link rel="apple-touch-icon" sizes="180x180" href="apple-touch-icon.png"><link rel="icon" sizes="any" href="favicon.ico"><link rel="manifest" href="site.webmanifest"><script src="deps/jquery-3.6.0/jquery-3.6.0.min.js"></script><meta name="viewport" content="width=device-width, initial-scale=1, shrink-to-fit=no"><link href="deps/bootstrap-5.3.1/bootstrap.min.css" rel="stylesheet"><script src="deps/bootstrap-5.3.1/bootstrap.bundle.min.js"></script><link href="deps/font-awesome-6.5.2/css/all.min.css" rel="stylesheet"><link href="deps/font-awesome-6.5.2/css/v4-shims.min.css" rel="stylesheet"><script src="deps/headroom-0.11.0/headroom.min.js"></script><script src="deps/headroom-0.11.0/jQuery.headroom.min.js"></script><script src="deps/bootstrap-toc-1.0.1/bootstrap-toc.min.js"></script><script src="deps/clipboard.js-2.0.11/clipboard.min.js"></script><script src="deps/search-1.0.0/autocomplete.jquery.min.js"></script><script src="deps/search-1.0.0/fuse.min.js"></script><script src="deps/search-1.0.0/mark.min.js"></script><!-- pkgdown --><script src="pkgdown.js"></script><link href="extra.css" rel="stylesheet"><meta property="og:title" content="Authors and Citation"><meta property="og:image" content="https://jbengler.github.io/tidyplots/logo.svg"></head><body>
+<!-- Generated by pkgdown: do not edit by hand --><html lang="en"><head><meta http-equiv="Content-Type" content="text/html; charset=UTF-8"><meta charset="utf-8"><meta http-equiv="X-UA-Compatible" content="IE=edge"><meta name="viewport" content="width=device-width, initial-scale=1, shrink-to-fit=no"><title>Authors and Citation • tidyplots</title><!-- favicons --><link rel="icon" type="image/png" sizes="96x96" href="favicon-96x96.png"><link rel="icon" type="”image/svg+xml”" href="favicon.svg"><link rel="apple-touch-icon" sizes="180x180" href="apple-touch-icon.png"><link rel="icon" sizes="any" href="favicon.ico"><link rel="manifest" href="site.webmanifest"><script src="deps/jquery-3.6.0/jquery-3.6.0.min.js"></script><meta name="viewport" content="width=device-width, initial-scale=1, shrink-to-fit=no"><link href="deps/bootstrap-5.3.8/bootstrap.min.css" rel="stylesheet"><script src="deps/bootstrap-5.3.8/bootstrap.bundle.min.js"></script><link href="deps/font-awesome-6.5.2/css/all.min.css" rel="stylesheet"><link href="deps/font-awesome-6.5.2/css/v4-shims.min.css" rel="stylesheet"><script src="deps/headroom-0.11.0/headroom.min.js"></script><script src="deps/headroom-0.11.0/jQuery.headroom.min.js"></script><script src="deps/bootstrap-toc-1.0.1/bootstrap-toc.min.js"></script><script src="deps/clipboard.js-2.0.11/clipboard.min.js"></script><script src="deps/search-1.0.0/autocomplete.jquery.min.js"></script><script src="deps/search-1.0.0/fuse.min.js"></script><script src="deps/search-1.0.0/mark.min.js"></script><!-- pkgdown --><script src="pkgdown.js"></script><link href="extra.css" rel="stylesheet"><meta property="og:title" content="Authors and Citation"><meta property="og:image" content="https://jbengler.github.io/tidyplots/logo.svg"></head><body>
     <a href="#main" class="visually-hidden-focusable">Skip to contents</a>
 
 